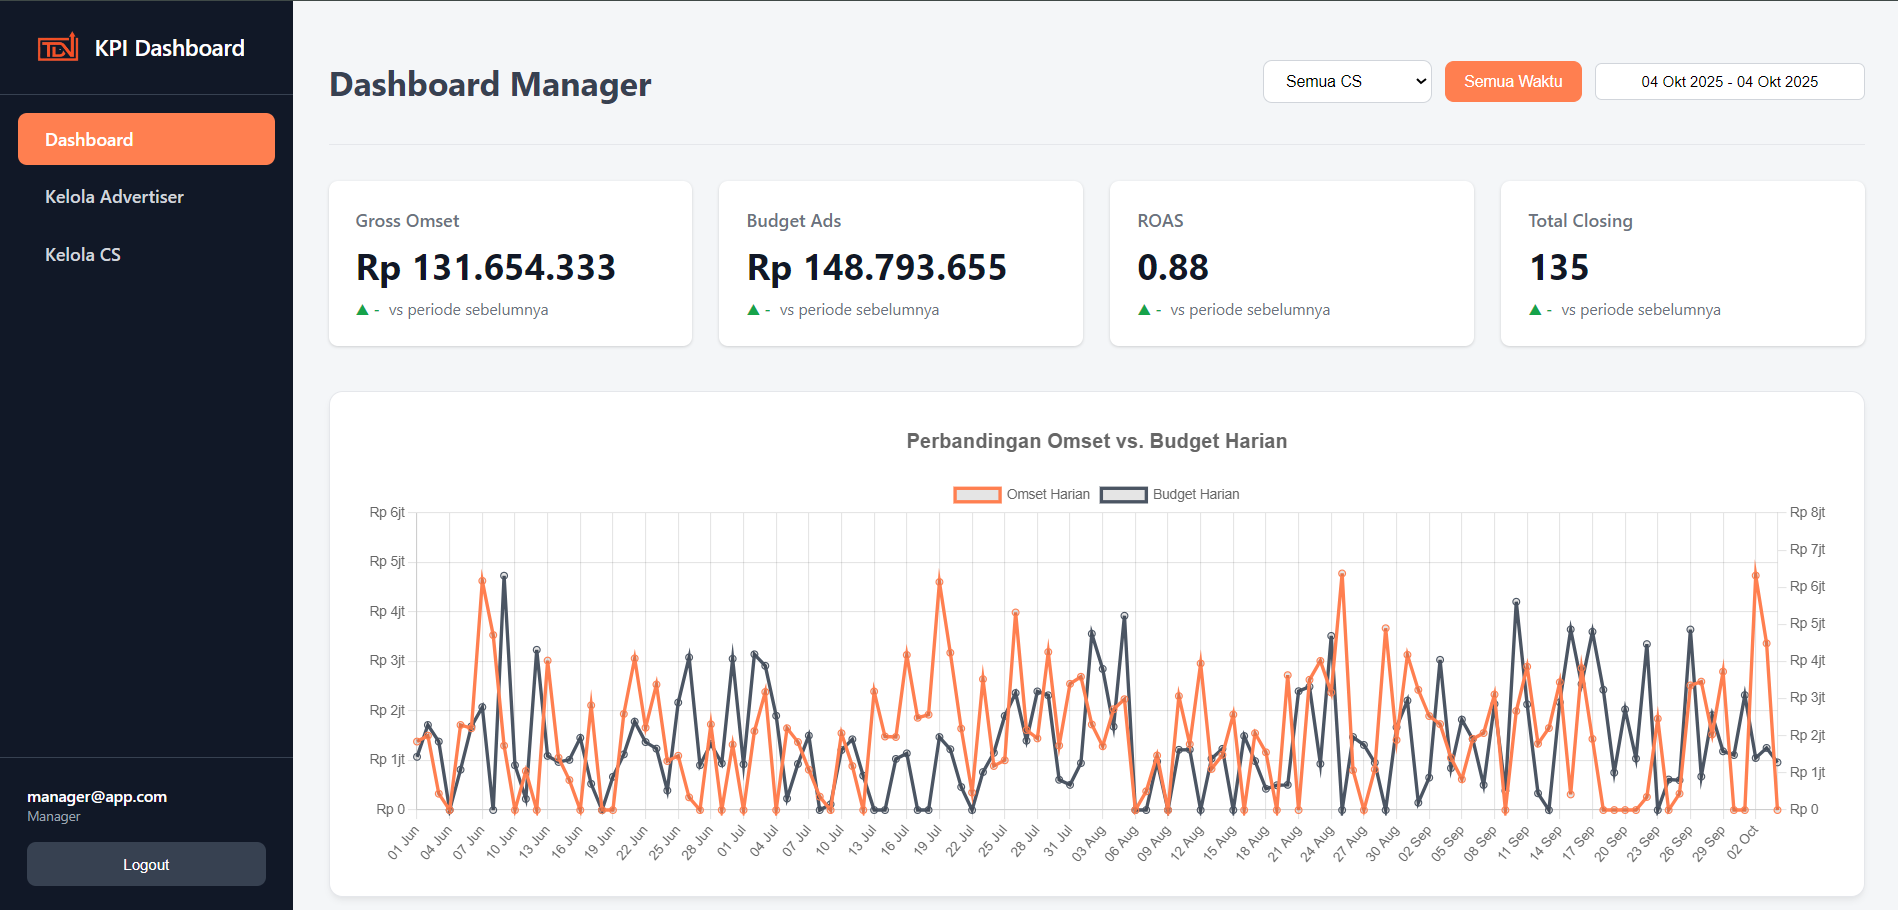
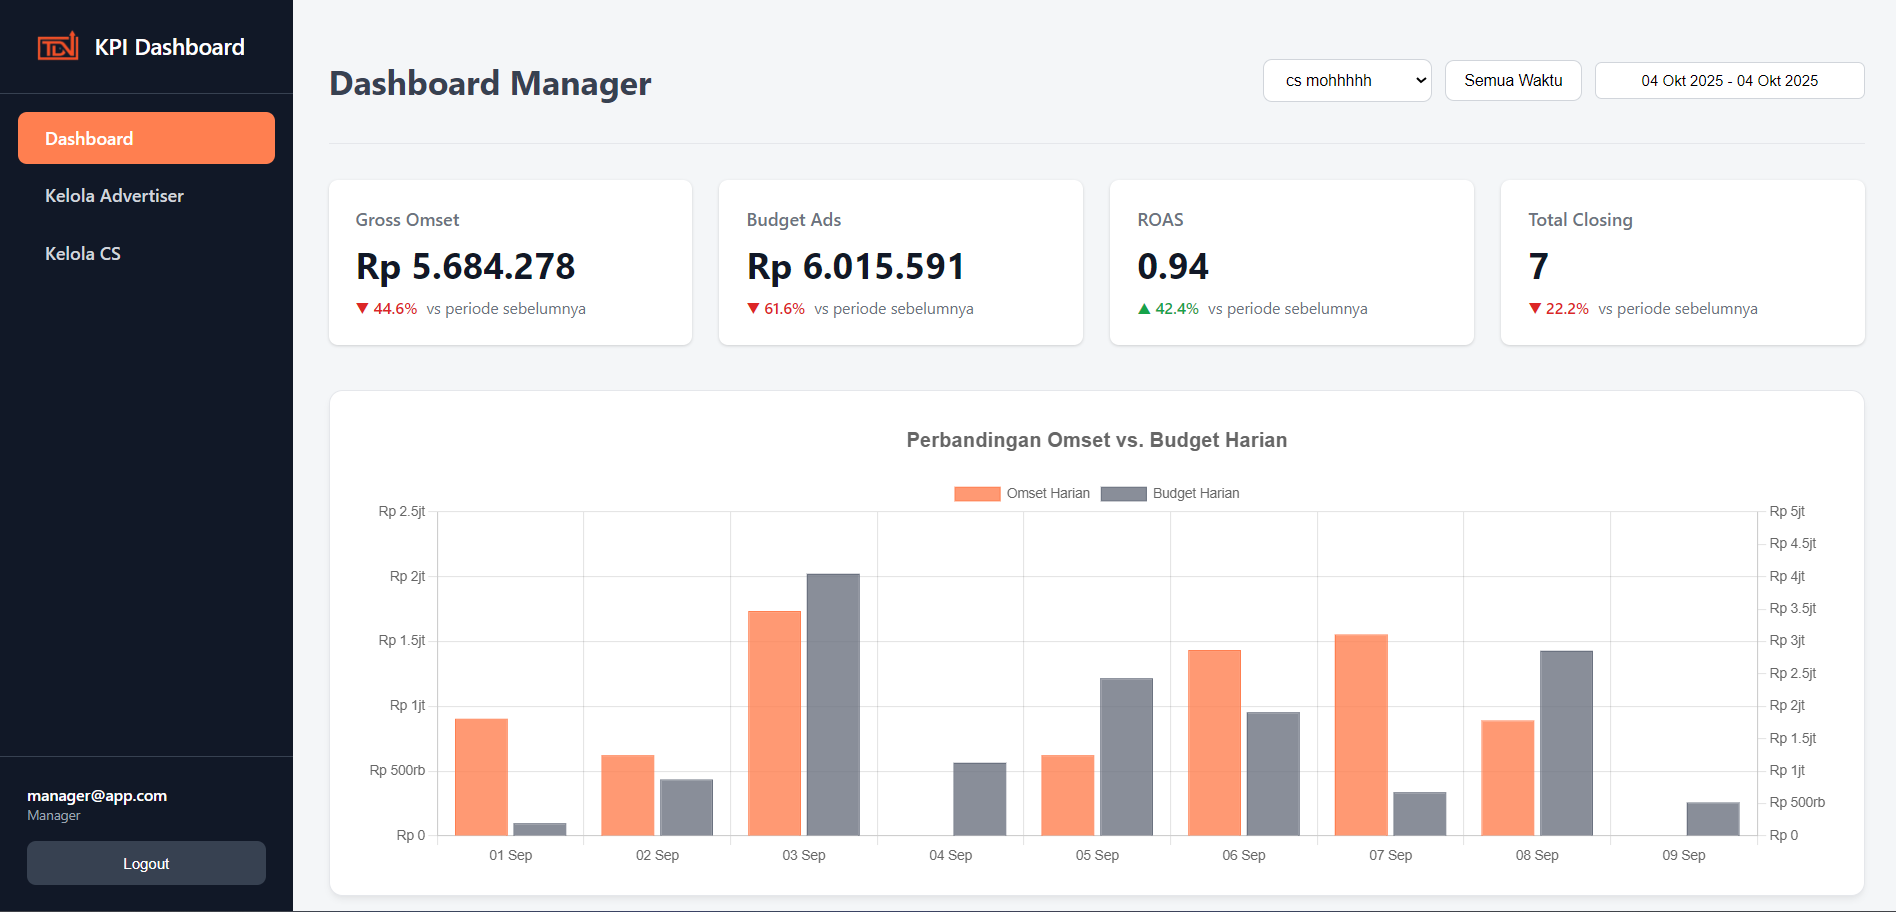
am Done ✅

diff --git a/frontend/src/pages/ManagerDashboardPage/ManagerDashboardPage.jsx b/frontend/src/pages/ManagerDashboardPage/ManagerDashboardPage.jsx
@@ -5,7 +5,7 @@ import { useData } from '../../contexts/DataContext';
 import Card from '../../components/ui/Card/Card';
 import Table from '../../components/ui/Table/Table';
 import DateRangePickerComponent from '../../components/specific/DateRangePicker/DateRangePicker';
-import BarChart from '../../components/ui/Chart/LineChart'; // Menggunakan BarChart
+import BarChart from '../../components/ui/Chart/BarChart'; // Menggunakan BarChart
 import styles from './ManagerDashboardPage.module.css';
 
 function ManagerDashboardPage() {
@@ -23,7 +23,33 @@ function ManagerDashboardPage() {
       const startDate = isAllTime ? null : dateRange.startDate;
       const endDate = isAllTime ? null : dateRange.endDate;
       const result = await getDashboardDataForPeriod(startDate, endDate, selectedCS);
-      setData(result);
+      if (result && result.current && result.current.chartData) {
+        // Asumsi result.current.chartData memiliki struktur { labels: [], datasets: [{ label: 'Omset Harian', data: [] }, { label: 'Budget Harian', data: [] }] }
+        const updatedChartData = {
+          labels: result.current.chartData.labels,
+          datasets: result.current.chartData.datasets.map(dataset => {
+            if (dataset.label === 'Omset Harian') {
+              return {
+                ...dataset,
+                backgroundColor: 'rgba(255, 127, 80, 0.8)', // Warna primer Anda
+                borderColor: 'rgba(255, 127, 80, 1)',
+                borderWidth: 1,
+              };
+            } else if (dataset.label === 'Budget Harian') {
+              return {
+                ...dataset,
+                backgroundColor: 'rgba(107, 114, 128, 0.8)', // Warna abu-abu yang lebih gelap
+                borderColor: 'rgba(107, 114, 128, 1)',
+                borderWidth: 1,
+              };
+            }
+            return dataset; // Jika ada dataset lain, biarkan apa adanya
+          }),
+        };
+        setData({ ...result, current: { ...result.current, chartData: updatedChartData } });
+      } else {
+        setData(result); // Jika tidak ada data chart, set saja hasilnya
+      }
       setLoading(false);
     };
     fetchData();

diff --git a/frontend/src/components/ui/Chart/BarChart.jsx b/frontend/src/components/ui/Chart/BarChart.jsx
@@ -1,49 +1,47 @@
+// File: BarChart.js
+// TIDAK PERLU ADA PERUBAHAN DI SINI
+
 import React from 'react';
-import { Line } from 'react-chartjs-2';
+import { Bar } from 'react-chartjs-2';
 import {
   Chart as ChartJS,
   CategoryScale,
   LinearScale,
-  PointElement,
-
+  BarElement,
   Title,
   Tooltip,
   Legend,
-  LineElement,
 } from 'chart.js';
 
 ChartJS.register(
   CategoryScale,
   LinearScale,
-  PointElement,
-  LineElement,
+  BarElement,
   Title,
   Tooltip,
   Legend
 );
 
-function LineChart({ chartData, title }) {
-  const hasOmsetData = chartData && chartData.datasets && chartData.datasets[0] && chartData.datasets[0].data.length > 0;
+function BarChart({ chartData, title }) {
+const hasOmsetData = chartData && chartData.datasets && chartData.datasets[0] && chartData.datasets[0].data.length > 0;
   const hasBudgetData = chartData && chartData.datasets && chartData.datasets[1] && chartData.datasets[1].data.length > 0;
-
   const options = {
     responsive: true,
     maintainAspectRatio: false,
-    interaction: {
-        mode: 'index',
-        intersect: false,
-    },
     plugins: {
-      legend: { position: 'top' },
+      legend: {
+        position: 'top',
+      },
       title: {
         display: true,
         text: title,
         font: { size: 18, weight: 'bold' },
-        padding: { top: 10, bottom: 20 }
+        padding: { top: 10, bottom: 20 },
+        
       },
     },
     scales: {
-        y: { 
+       y: { 
             type: 'linear',
             display: true,
             position: 'left',
@@ -74,14 +72,13 @@ function LineChart({ chartData, title }) {
                 }
             }
         }
-    }
+    },
   };
-
-  if (!hasOmsetData && !hasBudgetData) {
+   if (!hasOmsetData && !hasBudgetData) {
     return <div style={{textAlign: 'center', color: '#888', marginTop: '50px'}}>Tidak ada data untuk ditampilkan pada rentang ini.</div>;
   }
 
-  return <Line options={options} data={chartData} />;
+  return <Bar options={options} data={chartData} />;
 }
 
-export default LineChart;
+export default BarChart;
